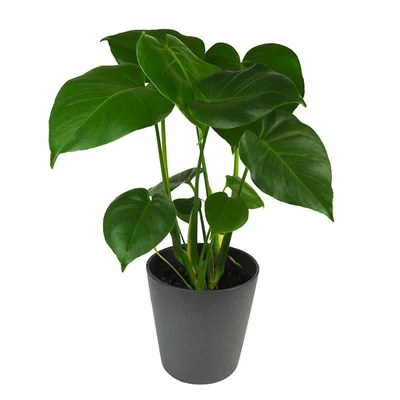
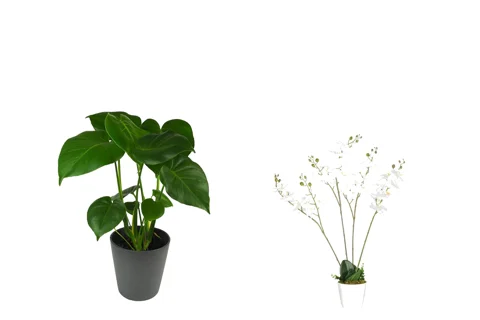
Destacados: cantidades sutiles, sin lámpara, escritorio sin fondo, plantas y floreros, infinito de 4 colores (blanco, negro, azul y naranja)
Claude-Session: https://claude.ai/code/session_01HXoFF7Ce827aHi2N6ARGJQ

diff --git a/index.html b/index.html
@@ -311,23 +311,23 @@
 
   <div class="panel" role="tabpanel" id="tab-muebles" aria-labelledby="b-muebles">
       <ul class="destacados" aria-label="Destacados">
-        <li><figure><button type="button" aria-label="Ver Sillas Wassily Breuer en grande"><img src="img/incluido/wassily.webp" alt="Sillas Wassily Breuer" loading="lazy"></button><figcaption>Sillas Wassily Breuer</figcaption></figure></li>
-        <li><figure><button type="button" aria-label="Ver Sillón modular beige en grande"><img src="img/incluido/sillon-modular.webp" alt="Sillón modular beige" loading="lazy"></button><figcaption>Sillón modular beige</figcaption></figure></li>
+        <li><figure><button type="button" aria-label="Ver Sillas Wassily Breuer en grande"><img src="img/incluido/wassily.webp" alt="Sillas Wassily Breuer" loading="lazy"></button><figcaption>Sillas Wassily Breuer <span class="cant">×2</span></figcaption></figure></li>
+        <li><figure><button type="button" aria-label="Ver Sillón modular beige en grande"><img src="img/incluido/sillon-modular.webp" alt="Sillón modular beige" loading="lazy"></button><figcaption>Sillón modular beige <span class="cant">×4</span></figcaption></figure></li>
         <li><figure><button type="button" aria-label="Ver Mesa Tulip blanca 160 cm en grande"><img src="img/incluido/mesa-tulip.webp" alt="Mesa Tulip blanca 160 cm" loading="lazy"></button><figcaption>Mesa Tulip blanca 160 cm</figcaption></figure></li>
         <li><figure><button type="button" aria-label="Ver Cama queen Calm es Simple en grande"><img src="img/incluido/cama.webp" alt="Cama queen Calm es Simple" loading="lazy"></button><figcaption>Cama queen Calm es Simple</figcaption></figure></li>
-        <li><figure><button type="button" aria-label="Ver Sillas Master Eames en grande"><img src="img/incluido/sillas-master.webp" alt="Sillas Master Eames" loading="lazy"></button><figcaption>Sillas Master Eames</figcaption></figure></li>
+        <li><figure><button type="button" aria-label="Ver Sillas Master Eames en grande"><img src="img/incluido/sillas-master.webp" alt="Sillas Master Eames" loading="lazy"></button><figcaption>Sillas Master Eames <span class="cant">×25</span></figcaption></figure></li>
         <li><figure><button type="button" aria-label="Ver Escritorio beige en grande"><img src="img/incluido/escritorio.webp" alt="Escritorio beige" loading="lazy"></button><figcaption>Escritorio beige</figcaption></figure></li>
         <li><figure><button type="button" aria-label="Ver Estantería blanca y dorada en grande"><img src="img/incluido/estanteria.webp" alt="Estantería blanca y dorada" loading="lazy"></button><figcaption>Estantería blanca y dorada</figcaption></figure></li>
-        <li><figure><button type="button" aria-label="Ver Silla terracota en grande"><img src="img/incluido/silla-terracota.webp" alt="Silla terracota" loading="lazy"></button><figcaption>Silla terracota</figcaption></figure></li>
-        <li><figure><button type="button" aria-label="Ver Alfombra beige de pelo largo en grande"><img src="img/incluido/alfombra.webp" alt="Alfombra beige de pelo largo" loading="lazy"></button><figcaption>Alfombra beige de pelo largo</figcaption></figure></li>
+        <li><figure><button type="button" aria-label="Ver Silla terracota en grande"><img src="img/incluido/silla-terracota.webp" alt="Silla terracota" loading="lazy"></button><figcaption>Silla terracota <span class="cant">×2</span></figcaption></figure></li>
+        <li><figure><button type="button" aria-label="Ver Alfombra beige de pelo largo en grande"><img src="img/incluido/alfombra.webp" alt="Alfombra beige de pelo largo" loading="lazy"></button><figcaption>Alfombra beige de pelo largo <span class="cant">×3</span></figcaption></figure></li>
         <li><figure><button type="button" aria-label="Ver Cuadro estilo Rothko en grande"><img src="img/incluido/rothko.webp" alt="Cuadro estilo Rothko" loading="lazy"></button><figcaption>Cuadro estilo Rothko</figcaption></figure></li>
         <li><figure><button type="button" aria-label="Ver Mesa negra de hierro en grande"><img src="img/incluido/mesa-negra.webp" alt="Mesa negra de hierro" loading="lazy"></button><figcaption>Mesa negra de hierro</figcaption></figure></li>
         <li><figure><button type="button" aria-label="Ver Mesa auxiliar de hierro en grande"><img src="img/incluido/mesa-auxiliar.webp" alt="Mesa auxiliar de hierro" loading="lazy"></button><figcaption>Mesa auxiliar de hierro</figcaption></figure></li>
         <li><figure><button type="button" aria-label="Ver Mesita redonda alta en grande"><img src="img/incluido/mesita.webp" alt="Mesita redonda alta" loading="lazy"></button><figcaption>Mesita redonda alta</figcaption></figure></li>
-        <li><figure><button type="button" aria-label="Ver Lámpara en grande"><img src="img/incluido/lampara.webp" alt="Lámpara" loading="lazy"></button><figcaption>Lámpara</figcaption></figure></li>
-        <li><figure><button type="button" aria-label="Ver Perchero en grande"><img src="img/incluido/perchero.webp" alt="Perchero" loading="lazy"></button><figcaption>Perchero</figcaption></figure></li>
-        <li><figure><button type="button" aria-label="Ver Caballetes de hierro en grande"><img src="img/incluido/caballetes.webp" alt="Caballetes de hierro" loading="lazy"></button><figcaption>Caballetes de hierro</figcaption></figure></li>
-        <li><figure><button type="button" aria-label="Ver Plantas reales en grande"><img src="img/incluido/plantas.webp" alt="Plantas reales" loading="lazy"></button><figcaption>Plantas reales</figcaption></figure></li>
+        <li><figure><button type="button" aria-label="Ver Mesa plegable en grande"><img src="img/incluido/mesa-plegable.webp" alt="Mesa plegable" loading="lazy"></button><figcaption>Mesa plegable</figcaption></figure></li>
+        <li><figure><button type="button" aria-label="Ver Perchero en grande"><img src="img/incluido/perchero.webp" alt="Perchero" loading="lazy"></button><figcaption>Perchero <span class="cant">×4</span></figcaption></figure></li>
+        <li><figure><button type="button" aria-label="Ver Caballetes de hierro en grande"><img src="img/incluido/caballetes.webp" alt="Caballetes de hierro" loading="lazy"></button><figcaption>Caballetes de hierro <span class="cant">×2</span></figcaption></figure></li>
+        <li><figure><button type="button" aria-label="Ver Plantas y floreros en grande"><img src="img/incluido/plantas.webp" alt="Plantas y floreros" loading="lazy"></button><figcaption>Plantas y floreros</figcaption></figure></li>
         <li><figure><button type="button" aria-label="Ver Sillón con manta en grande"><img src="img/incluido/sillon-manta.webp" alt="Sillón con manta" loading="lazy"></button><figcaption>Sillón con manta</figcaption></figure></li>
       </ul>
     <ol class="lista lista-col">
@@ -347,19 +347,19 @@
   </div>
   <div class="panel" role="tabpanel" id="tab-equipos" aria-labelledby="b-equipos" hidden>
       <ul class="destacados" aria-label="Destacados">
-        <li><figure><button type="button" aria-label="Ver Flash Visico 600W en grande"><img src="img/incluido/flash-600.webp" alt="Flash Visico 600W" loading="lazy"></button><figcaption>Flash Visico 600W</figcaption></figure></li>
+        <li><figure><button type="button" aria-label="Ver Flash Visico 600W en grande"><img src="img/incluido/flash-600.webp" alt="Flash Visico 600W" loading="lazy"></button><figcaption>Flash Visico 600W <span class="cant">×2</span></figcaption></figure></li>
         <li><figure><button type="button" aria-label="Ver Flash de apoyo 300W en grande"><img src="img/incluido/flash-300.webp" alt="Flash de apoyo 300W" loading="lazy"></button><figcaption>Flash de apoyo 300W</figcaption></figure></li>
         <li><figure><button type="button" aria-label="Ver Luz continua RGB 500W en grande"><img src="img/incluido/luz-rgb.webp" alt="Luz continua RGB 500W" loading="lazy"></button><figcaption>Luz continua RGB 500W</figcaption></figure></li>
         <li><figure><button type="button" aria-label="Ver Octobox 150 cm en grande"><img src="img/incluido/octobox-150.webp" alt="Octobox 150 cm" loading="lazy"></button><figcaption>Octobox 150 cm</figcaption></figure></li>
         <li><figure><button type="button" aria-label="Ver Octobox Triopo 90 cm en grande"><img src="img/incluido/octobox-90.webp" alt="Octobox Triopo 90 cm" loading="lazy"></button><figcaption>Octobox Triopo 90 cm</figcaption></figure></li>
         <li><figure><button type="button" aria-label="Ver Softbox 60 × 90 cm en grande"><img src="img/incluido/softbox.webp" alt="Softbox 60 × 90 cm" loading="lazy"></button><figcaption>Softbox 60 × 90 cm</figcaption></figure></li>
-        <li><figure><button type="button" aria-label="Ver Luz continua blanca 250W en grande"><img src="img/incluido/luz-blanca.webp" alt="Luz continua blanca 250W" loading="lazy"></button><figcaption>Luz continua blanca 250W</figcaption></figure></li>
-        <li><figure><button type="button" aria-label="Ver Reflector LED en grande"><img src="img/incluido/reflector-led.webp" alt="Reflector LED" loading="lazy"></button><figcaption>Reflector LED</figcaption></figure></li>
-        <li><figure><button type="button" aria-label="Ver Reflector RGB en grande"><img src="img/incluido/reflector-rgb.webp" alt="Reflector RGB" loading="lazy"></button><figcaption>Reflector RGB</figcaption></figure></li>
+        <li><figure><button type="button" aria-label="Ver Luz continua blanca 250W en grande"><img src="img/incluido/luz-blanca.webp" alt="Luz continua blanca 250W" loading="lazy"></button><figcaption>Luz continua blanca 250W <span class="cant">×2</span></figcaption></figure></li>
+        <li><figure><button type="button" aria-label="Ver Reflector LED blanco 100W en grande"><img src="img/incluido/reflector-led.webp" alt="Reflector LED blanco 100W" loading="lazy"></button><figcaption>Reflector LED blanco 100W <span class="cant">×2</span></figcaption></figure></li>
+        <li><figure><button type="button" aria-label="Ver Reflector RGB 50W en grande"><img src="img/incluido/reflector-rgb.webp" alt="Reflector RGB 50W" loading="lazy"></button><figcaption>Reflector RGB 50W <span class="cant">×2</span></figcaption></figure></li>
         <li><figure><button type="button" aria-label="Ver Pantalla 5 en 1 en grande"><img src="img/incluido/pantalla.webp" alt="Pantalla 5 en 1" loading="lazy"></button><figcaption>Pantalla 5 en 1</figcaption></figure></li>
         <li><figure><button type="button" aria-label="Ver Reflector plato en grande"><img src="img/incluido/reflector-plato.webp" alt="Reflector plato" loading="lazy"></button><figcaption>Reflector plato</figcaption></figure></li>
         <li><figure><button type="button" aria-label="Ver Emisor / receptor en grande"><img src="img/incluido/emisor.webp" alt="Emisor / receptor" loading="lazy"></button><figcaption>Emisor / receptor</figcaption></figure></li>
-        <li><figure><button type="button" aria-label="Ver Trípodes de iluminación en grande"><img src="img/incluido/tripodes.webp" alt="Trípodes de iluminación" loading="lazy"></button><figcaption>Trípodes de iluminación</figcaption></figure></li>
+        <li><figure><button type="button" aria-label="Ver Trípodes de iluminación en grande"><img src="img/incluido/tripodes.webp" alt="Trípodes de iluminación" loading="lazy"></button><figcaption>Trípodes de iluminación <span class="cant">×4</span></figcaption></figure></li>
         <li><figure><button type="button" aria-label="Ver Trípode de cámara en grande"><img src="img/incluido/tripode-camara.webp" alt="Trípode de cámara" loading="lazy"></button><figcaption>Trípode de cámara</figcaption></figure></li>
         <li><figure><button type="button" aria-label="Ver Monitor HP 23" en grande"><img src="img/incluido/monitor.webp" alt="Monitor HP 23"" loading="lazy"></button><figcaption>Monitor HP 23"</figcaption></figure></li>
         <li><figure><button type="button" aria-label="Ver Cable tether USB-C en grande"><img src="img/incluido/cable-tether.webp" alt="Cable tether USB-C" loading="lazy"></button><figcaption>Cable tether USB-C</figcaption></figure></li>
@@ -367,7 +367,7 @@
         <li><figure><button type="button" aria-label="Ver Soporte de fondo en grande"><img src="img/incluido/soporte-fondo.webp" alt="Soporte de fondo" loading="lazy"></button><figcaption>Soporte de fondo</figcaption></figure></li>
       </ul>
     <ol class="lista lista-col">
-      <li>Infinito ciclorama 2,72 × 3 m: blanco, azul, negro y rosa <span class="nota-mini">¿No encontrás el color que necesitás? Lo pedimos para vos.</span></li>
+      <li>Infinito ciclorama 2,72 × 3 m: blanco, negro, azul y naranja <span class="nota-mini">¿No encontrás el color que necesitás? Lo pedimos para vos.</span></li>
       <li>2 flashes Visico 600W con luz de modelado 25W</li>
       <li>Flash Visico 300W de apoyo</li>
       <li>Luz continua RGB 500W, montura Bowens</li>

diff --git a/css/estilos.css b/css/estilos.css
@@ -784,3 +784,5 @@ html.cursor-propio:has(dialog[open]), html.cursor-propio:has(dialog[open]) * { c
   .destacados { grid-template-columns: repeat(6, 1fr); margin-bottom: 40px; }
   .destacados img { height: 88px; }
 }
+
+.destacados .cant { font-family: var(--f-mono); font-size: 10px; letter-spacing: .06em; color: var(--gris); margin-left: 3px; }
